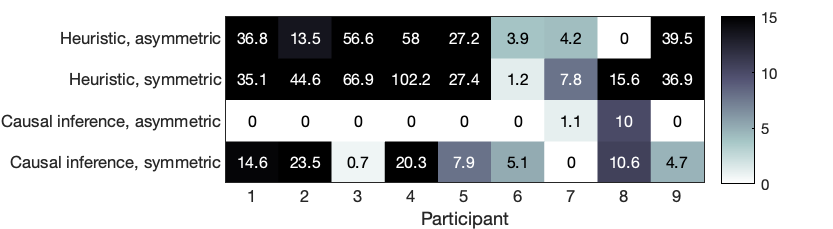
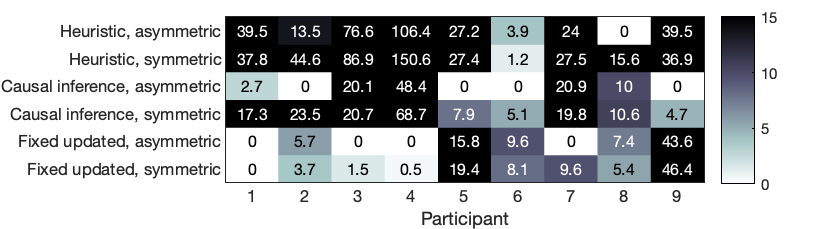
[major change] 4->6 recal models

diff --git a/recalibration_models_VBMC/plot_confusion_matrix.m b/recalibration_models_VBMC/plot_confusion_matrix.m
@@ -4,8 +4,8 @@ clear; close all; clc;
 
 %% model info
 
-specifications = {'Heuristic, asymmetric', 'Heuristic, symmetric', 'Causal inference, asymmetric',  'Causal inference, symmetric','Atheoretical'}; % Column 2: specifications
-folders = {'heu_asym', 'heu_sym', 'cauInf_asym', 'cauInf_sym','exp_shiftMu'}; % Column 3: folder names
+specifications = {'Heuristic, asymmetric', 'Heuristic, symmetric', 'Causal inference, asymmetric',  'Causal inference, symmetric','Fixed updated, asymmetric', 'Fixed updated, symmetric','Atheoretical'}; % Column 2: specifications
+folders = {'heu_asym', 'heu_sym', 'cauInf_asym', 'cauInf_sym','fixed_asym','fixed_sym','exp_shiftMu'}; % Column 3: folder names
 numbers = (1:numel(specifications))';
 model_info = table(numbers, specifications', folders', 'VariableNames', {'Number', 'Specification', 'FolderName'});
 
@@ -24,7 +24,7 @@ if ~exist(out_dir, 'dir'); mkdir(out_dir); end
 
 %% load recal models
 
-model_slc = 1:4;%[1,2,5];
+model_slc = 1:6;
 n_model = numel(model_slc);
 sub_slc = [1:4,6:10];
 
@@ -36,7 +36,6 @@ for mm = 1:n_model
         log_model_evi(mm, ss) = R{mm, ss}.diag.bestELCBO;
     end
 end
-
 
 %% load atheoretical model
 
@@ -75,7 +74,7 @@ saveas(gca, fullfile(out_dir, flnm),'png')
 %% 2. plot model evidence within recalibration model
 
 % max subtract other log model evidence
-delta_LME = max(log_model_evi(1:4,:), [], 1) - log_model_evi(1:4,:); 
+delta_LME = max(log_model_evi(model_slc,:), [], 1) - log_model_evi(model_slc,:); 
 
 figure
 h = heatmap(round(delta_LME, 1), 'XLabel','Participant', ...
@@ -85,7 +84,7 @@ h = heatmap(round(delta_LME, 1), 'XLabel','Participant', ...
 colorbar;
 %     'ColorLimits', [0, 15], 'ColorbarVisible', 'on', 'GridVisible', 'off',...
 
-h.YDisplayLabels = specifications(1:4);
+h.YDisplayLabels = specifications(model_slc);
 h.XDisplayLabels = num2cell(1:numel(sub_slc));
 
 % save figure

diff --git a/recalibration_models_VBMC/plot_model_prediction.m b/recalibration_models_VBMC/plot_model_prediction.m
@@ -5,8 +5,8 @@ clear; clc; close all;
 
 %% model info
 
-specifications = {'Heuristic, asymmetric', 'Heuristic, symmetric', 'Causal inference, asymmetric',  'Causal inference, symmetric','Atheoretical'}; % Column 2: specifications
-folders = {'heu_asym', 'heu_sym', 'cauInf_asym', 'cauInf_sym','exp_shiftMu'}; % Column 3: folder names
+specifications = {'Heuristic, asymmetric', 'Heuristic, symmetric', 'Causal inference, asymmetric',  'Causal inference, symmetric','Fixed updated, asymmetric', 'Fixed updated, symmetric','Atheoretical'}; % Column 2: specifications
+folders = {'heu_asym', 'heu_sym', 'cauInf_asym', 'cauInf_sym','fixed_asym','fixed_sym','exp_shiftMu'}; % Column 3: folder names
 numbers = (1:numel(specifications))';
 model_info = table(numbers, specifications', folders', 'VariableNames', {'Number', 'Specification', 'FolderName'});
 
@@ -25,11 +25,11 @@ if ~exist(out_dir, 'dir'); mkdir(out_dir); end
 
 %% load recalibration model results
 
-model_slc = 1:4;
+model_slc = 1:6;
 n_model = numel(model_slc);
 sub_slc = [1:4, 6:10];
 save_fig = 1;
-plotTOJ = 1;
+plotTOJ = 0;
 
 for mm = 1:n_model
     result_folder = fullfile(dataDir, 'recalibration_models_VBMC', folders{mm});
@@ -107,7 +107,7 @@ figure;
 set(gcf, 'Position',[0,0,420,130]);
 set(gcf, 'DefaultAxesFontName', 'Helvetica');
 set(gcf, 'DefaultTextFontName', 'Helvetica');
-t = tiledlayout(1,4,'Padding', 'compact', 'TileSpacing', 'compact');
+t = tiledlayout(1,6,'Padding', 'compact', 'TileSpacing', 'compact');
 
 yl = 100;
 ytks = {[], [], [], [-yl, 0, yl]};

diff --git a/recalibration_models_VBMC/model_recovery.m b/recalibration_models_VBMC/model_recovery.m
@@ -4,9 +4,9 @@ function model_recovery(fit_m)
 
 %% select models
 
-rng('Shuffle');
-specifications = {'Heuristic, asymmetric', 'Heuristic, symmetric', 'Causal inference, asymmetric',  'Causal inference, symmetric'}; % Column 2: specifications
-folders = {'heu_asym', 'heu_sym', 'cauInf_asym', 'cauInf_sym'}; % Column 3: folder names
+rng('shuffle'); rng('Shuffle');
+specifications = {'Heuristic, asymmetric', 'Heuristic, symmetric', 'Causal inference, asymmetric',  'Causal inference, symmetric','Fixed updated, asymmetric', 'Fixed updated, symmetric'}; % Column 2: specifications
+folders = {'heu_asym', 'heu_sym', 'cauInf_asym', 'cauInf_sym','fixed_asym','fixed_sym'}; % Column 3: folder names
 numbers = (1:numel(specifications))';
 model_info = table(numbers, specifications', folders', 'VariableNames', {'Number', 'Specification', 'FolderName'});
 currModelStr = model_info.FolderName{fit_m};
@@ -39,7 +39,7 @@ switch useCluster
         end
 
     case false
-        numCores = 4;
+        numCores = 6;
         sample = 1;
 end
 
@@ -110,7 +110,6 @@ for sim_m = 1:numCores
     num_sample = 1; % for each job, randomly sample once
     GT_samples{sim_m} = generate_samples(Val, mu_GT, sd_GT, num_sample);
     
-
 end
 
 parfor sim_m = 1:numCores

diff --git a/recalibration_models_VBMC/fit_recal_model_VBMC.m b/recalibration_models_VBMC/fit_recal_model_VBMC.m
@@ -124,7 +124,7 @@ model.exitflag = exitflag;
 model.output = temp_output;
 
 % save incase diagnosis fails
-save(fullfile(outDir, sprintf('sub-%i_%s', sub, datestr(datetime('now')))),'data','model')
+save(fullfile(outDir, sprintf('sub-%02d_%s', sub)),'data','model')
 
 % evaluate fits
 [diag.exitflag, diag.bestELBO, diag.idx_best, diag.stats] = vbmc_diagnostics(temp_vp);
@@ -140,7 +140,7 @@ model.mode       = 'predict';
 pred =  currModel(diag.post_mean, model, data);
 
 %% save the data for each participant
-save(fullfile(outDir, sprintf('sub-%02d_%s', sub, datestr(datetime('now')))),'data','model','diag','pred')
+save(fullfile(outDir, sprintf('sub-%02d_%s', sub)),'data','model','diag','pred')
 
 % delete current pool
 if ~isempty(gcp('nocreate'))

diff --git a/recalibration_models_VBMC/fixed_asym/nll_fixed_asym.m b/recalibration_models_VBMC/fixed_asym/nll_fixed_asym.m
@@ -11,7 +11,7 @@ if strcmp(model.mode, 'initialize')
     paraH.sigma_v  = [  10,   200]; % ms
     paraH.criterion= [   1,   350]; % criterion, s
     paraH.lambda   = [1e-4,  0.06]; % percentage
-    paraH.alpha    = [ 0.5,   3.5]; % percentage
+    paraH.alpha    = [1e-4,  0.02]; % percentage
 
     % soft bounds, the range for PLB, PUB
     paraS.tau      = [ -40,    40]; % ms
@@ -19,7 +19,7 @@ if strcmp(model.mode, 'initialize')
     paraS.sigma_v  = [  20,    50]; % ms
     paraS.criterion= [  30,    80]; % criterion, s
     paraS.lambda   = [0.01,  0.03]; % percentage
-    paraS.alpha    = [   1,     2]; % percentage
+    paraS.alpha    = [1e-3,  2e-3]; % percentage
 
     % reorganize parameter bounds 
     fn = fieldnames(paraH);

diff --git a/recalibration_models_VBMC/fixed_sym/nll_fixed_sym.m b/recalibration_models_VBMC/fixed_sym/nll_fixed_sym.m
@@ -10,14 +10,14 @@ if strcmp(model.mode, 'initialize')
     paraH.sigma    = [  10,   200]; % ms
     paraH.criterion= [   1,   350]; % criterion, s
     paraH.lambda   = [1e-4,  0.06]; % percentage
-    paraH.alpha    = [ 0.5,   3.5]; % percentage
+    paraH.alpha    = [1e-4,  0.02]; % percentage
 
     % soft bounds, the range for PLB, PUB
     paraS.tau      = [ -40,    40]; % ms
     paraS.sigma    = [  20,    50]; % ms
     paraS.criterion= [  30,    80]; % criterion, s
     paraS.lambda   = [0.01,  0.03]; % percentage
-    paraS.alpha    = [   1,     2]; % percentage
+    paraS.alpha    = [1e-3,  2e-3]; % percentage
 
     % reorganize parameter bounds 
     fn = fieldnames(paraH);
